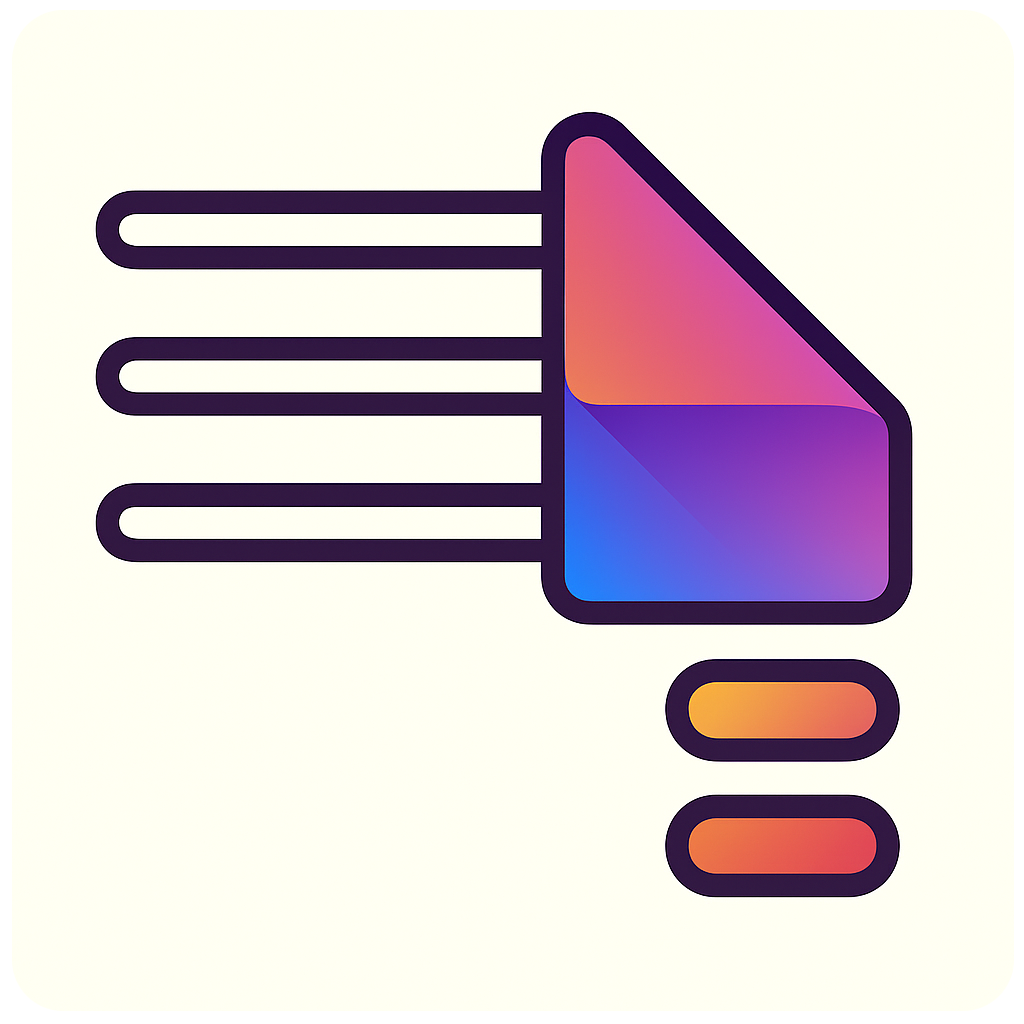
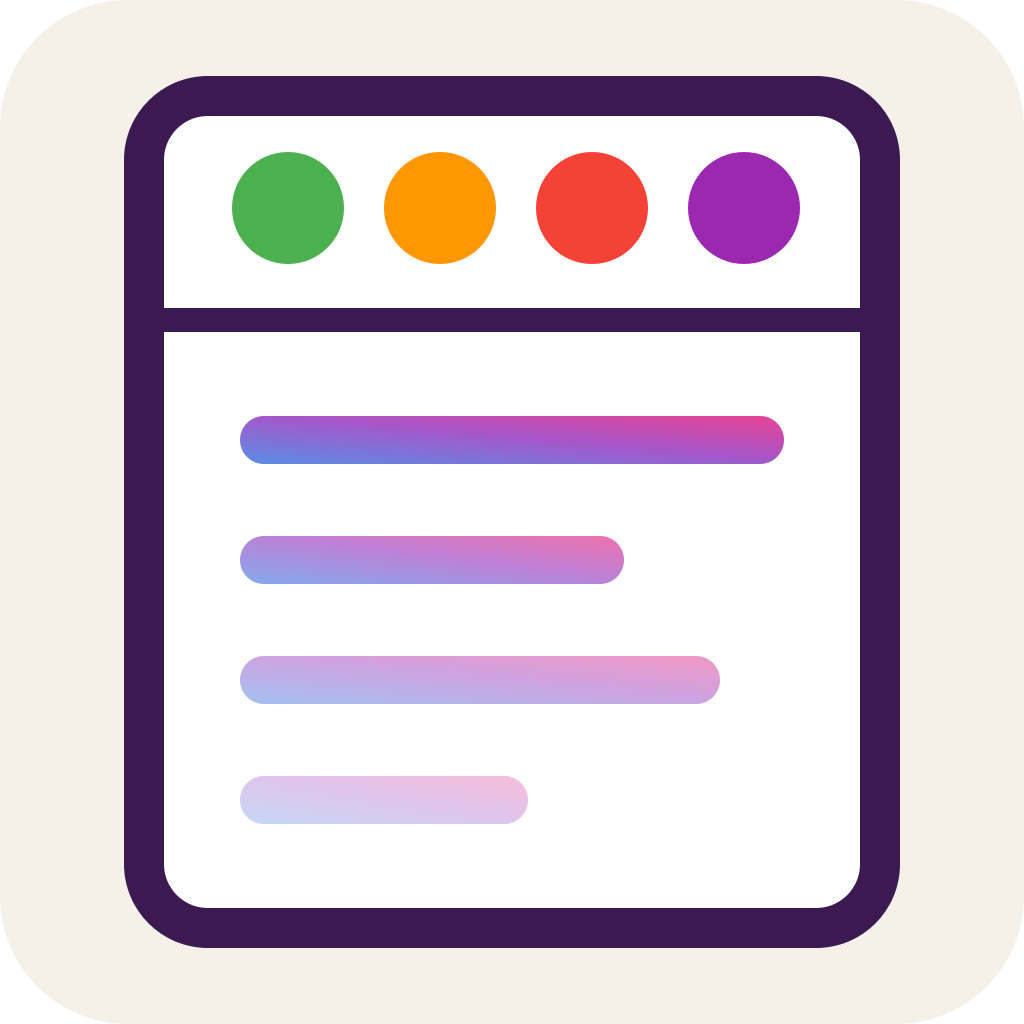
release: v5.1.2

diff --git a/CHANGELOG.md b/CHANGELOG.md
@@ -24,6 +24,15 @@ For older versions (3.11.0 and older), see [CHANGELOG_ARCHIVE.md](./CHANGELOG_AR
 
 ---
 
+## [5.1.2]
+
+### Changed
+
+- Redesigned extension icon: new "4 severity dots on a log file" concept replacing the funnel design, matching Saropa open source brand colors
+- Redesigned sidebar icon to match new document-with-dots concept (monochrome `currentColor`)
+
+---
+
 ## [5.1.1]
 
 ### Fixed